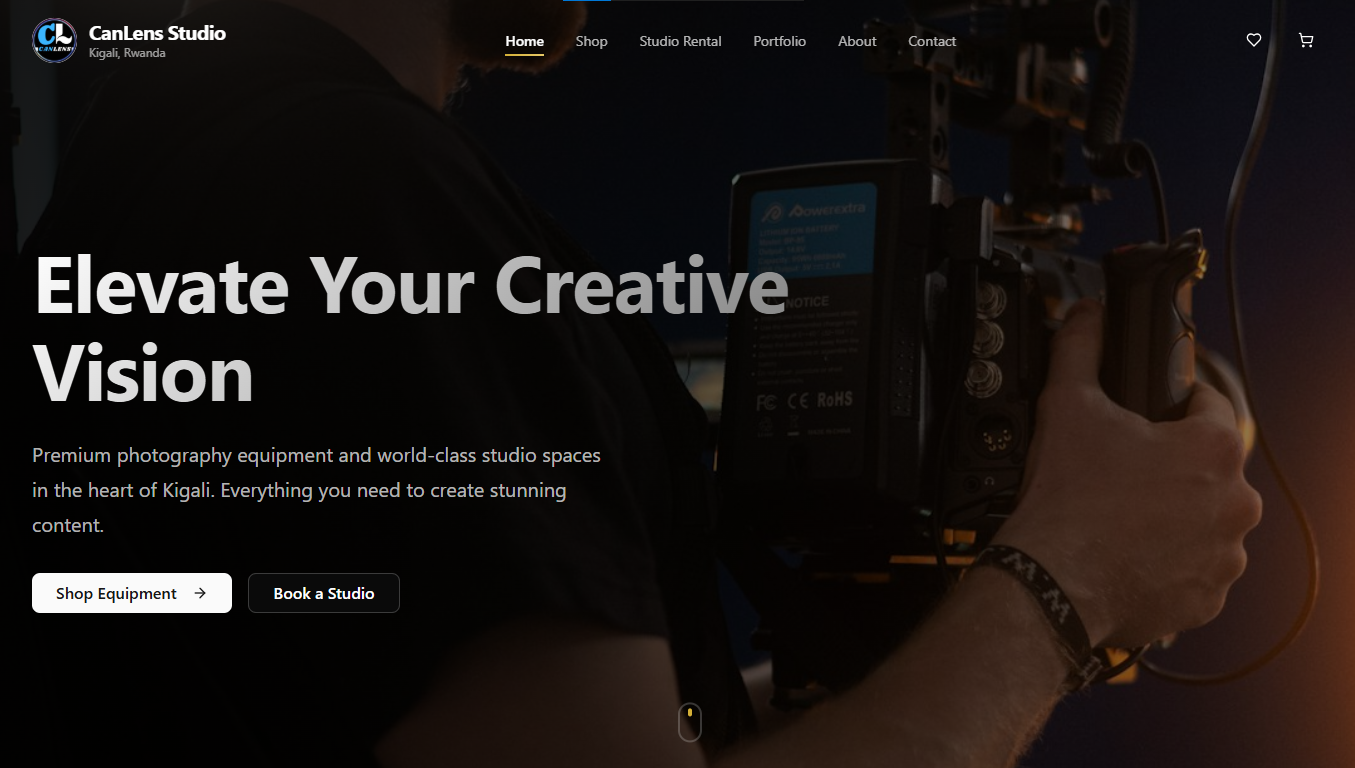
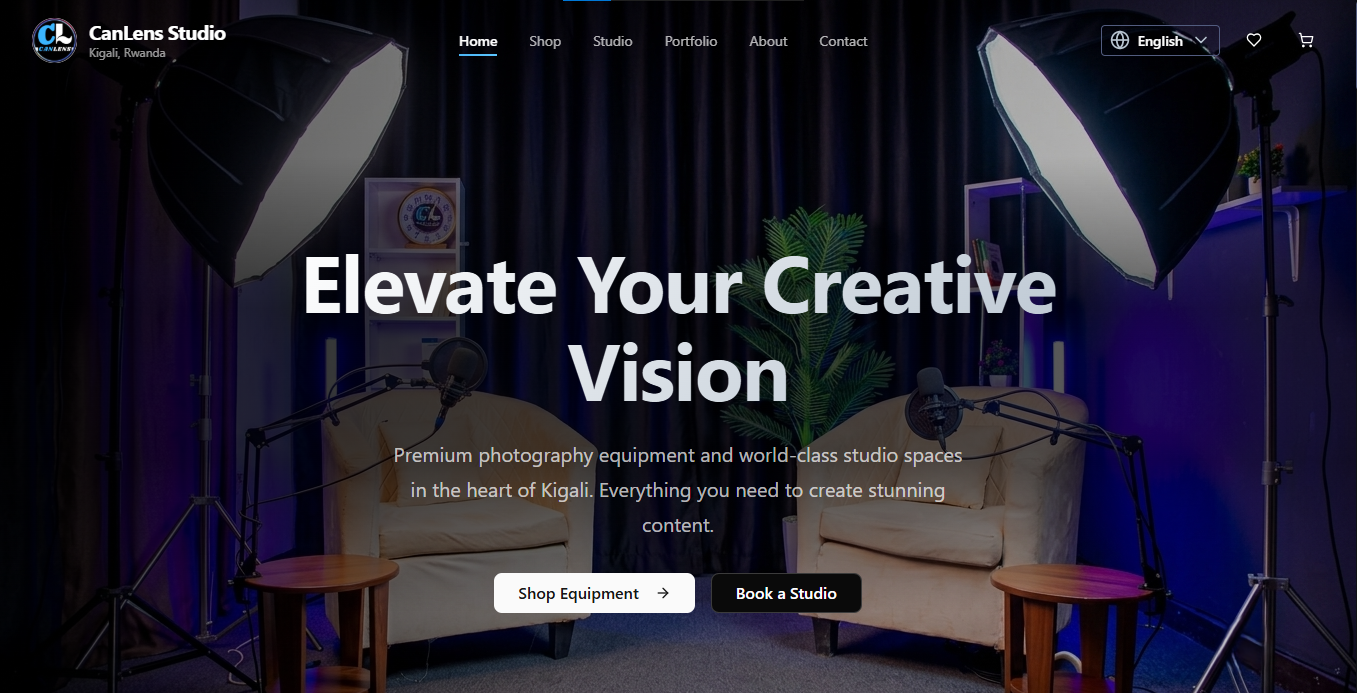
arrang the projects

diff --git a/src/sections/CaseStudies.jsx b/src/sections/CaseStudies.jsx
@@ -3,32 +3,23 @@ import { motion } from 'framer-motion';
 import styles from './CaseStudies.module.css';
 
 const caseStudies = [
-  {
-    title: "SudanTeach",
-    type: "EdTech Platform",
-    problem: "Limited access to interactive digital education in developing regions with low-bandwidth constraints.",
-    solution: "Architected a highly optimized, low-latency live learning ecosystem with resilient streaming capabilities.",
-    impact: "Scaled to 10,000+ active learners, significantly improving digital learning accessibility across the country.",
-    img: "/images/SudanTeachPoster.png",
-    link: "https://sudanteach.com"
-  },
-  {
-    title: "imiPharm",
-    type: "HealthTech Infrastructure",
-    problem: "Inefficient inventory management and disjointed communication between pharmacies and suppliers.",
-    solution: "Developed a comprehensive centralized dashboard with real-time inventory tracking and automated ordering workflows.",
-    impact: "Reduced operational overhead by 40% and eliminated stockout events for partnered pharmacies.",
-    img: "/images/imipharm.png", // Assuming this image name based on context
-    link: "#"
-  },
-  {
+   {
     title: "CanLens Studio",
     type: "E-Commerce & Booking",
     problem: "Fragmented customer journey requiring multiple platforms for equipment purchasing and studio booking.",
     solution: "Unified the experience into a seamless platform with dynamic scheduling, integrated payments, and inventory sync.",
     impact: "Increased booking conversion rate by 65% and streamlined administrative workload.",
     img: "/images/canlensHero.png",
-    link: "https://canlens.sudanteach.com"
+    link: "https://canlens.com"
+  },
+   {
+    title: "imiPharm",
+    type: "HealthTech Infrastructure",
+    problem: "Inefficient inventory management and disjointed communication between pharmacies and suppliers.",
+    solution: "Developed a comprehensive centralized dashboard with real-time inventory tracking and automated ordering workflows.",
+    impact: "Reduced operational overhead by 40% and eliminated stockout events for partnered pharmacies.",
+    img: "/images/imipharm.png", 
+    link: "#"
   },
   {
     title: "Monty Showcase",
@@ -38,7 +29,19 @@ const caseStudies = [
     impact: "Decreased bounce rate by 30% and increased average session duration by 2 minutes.",
     img: "/images/montyshowcaseHeroSection.png",
     link: "https://monty-showcase.vercel.app"
+  },
+
+  {
+    title: "SudanTeach",
+    type: "EdTech Platform",
+    problem: "Limited access to interactive digital education in developing regions with low-bandwidth constraints.",
+    solution: "Architected a highly optimized, low-latency live learning ecosystem with resilient streaming capabilities.",
+    impact: "Scaled to 10,000+ active learners, significantly improving digital learning accessibility across the country.",
+    img: "/images/SudanTeachPoster.png",
+    link: "https://sudanteach.com"
   }
+ 
+  
 ];
 
 export default function CaseStudies() {
